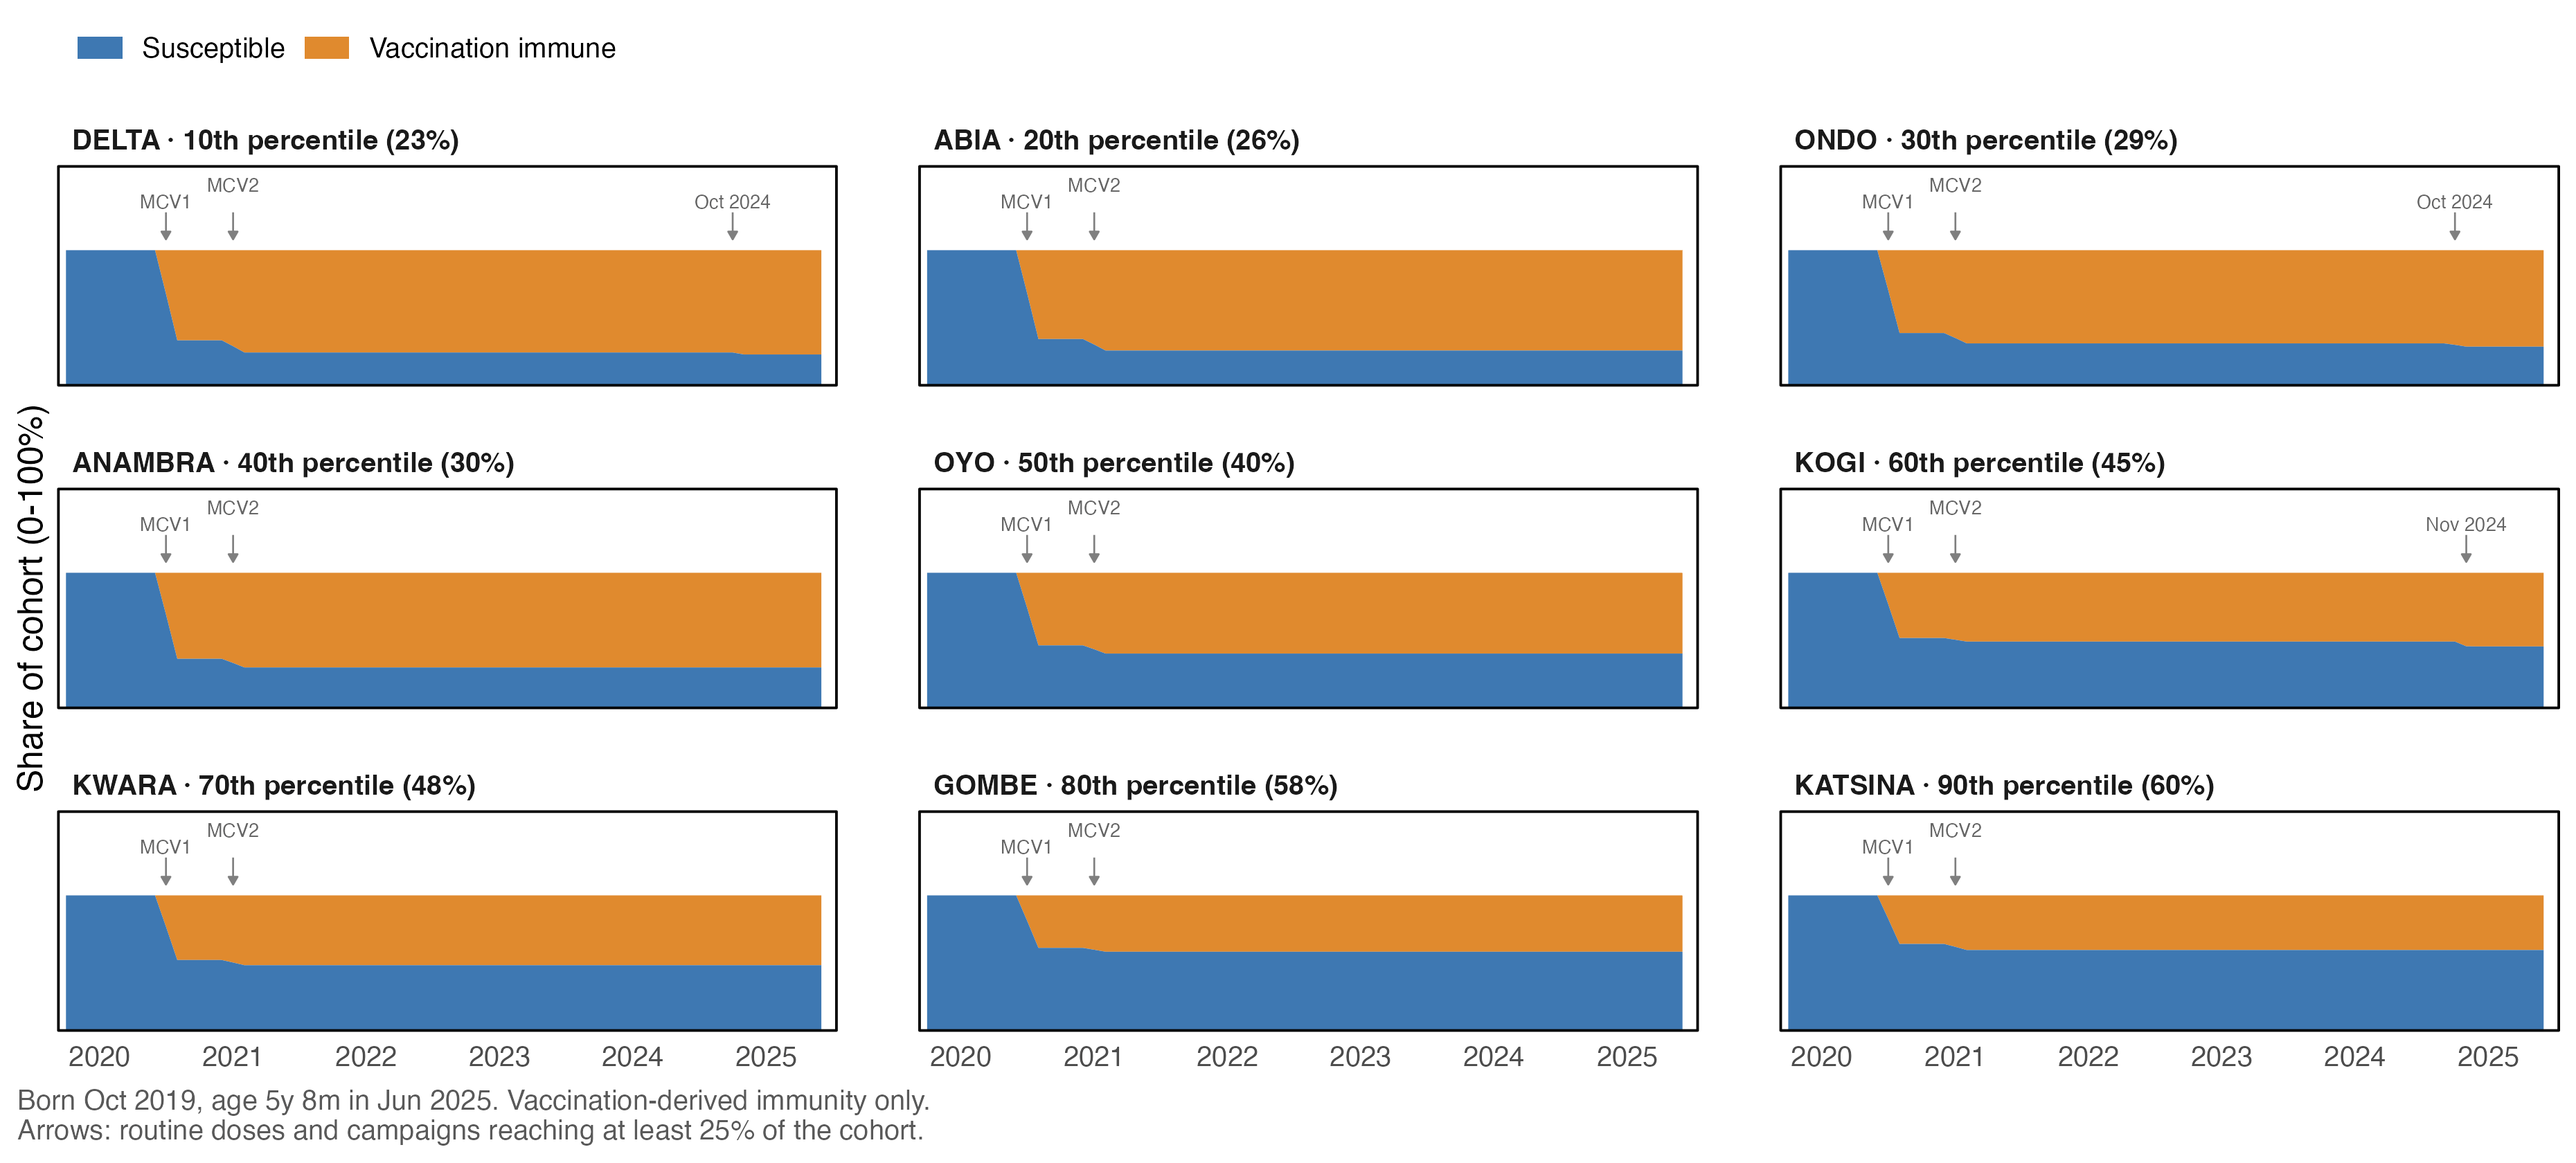
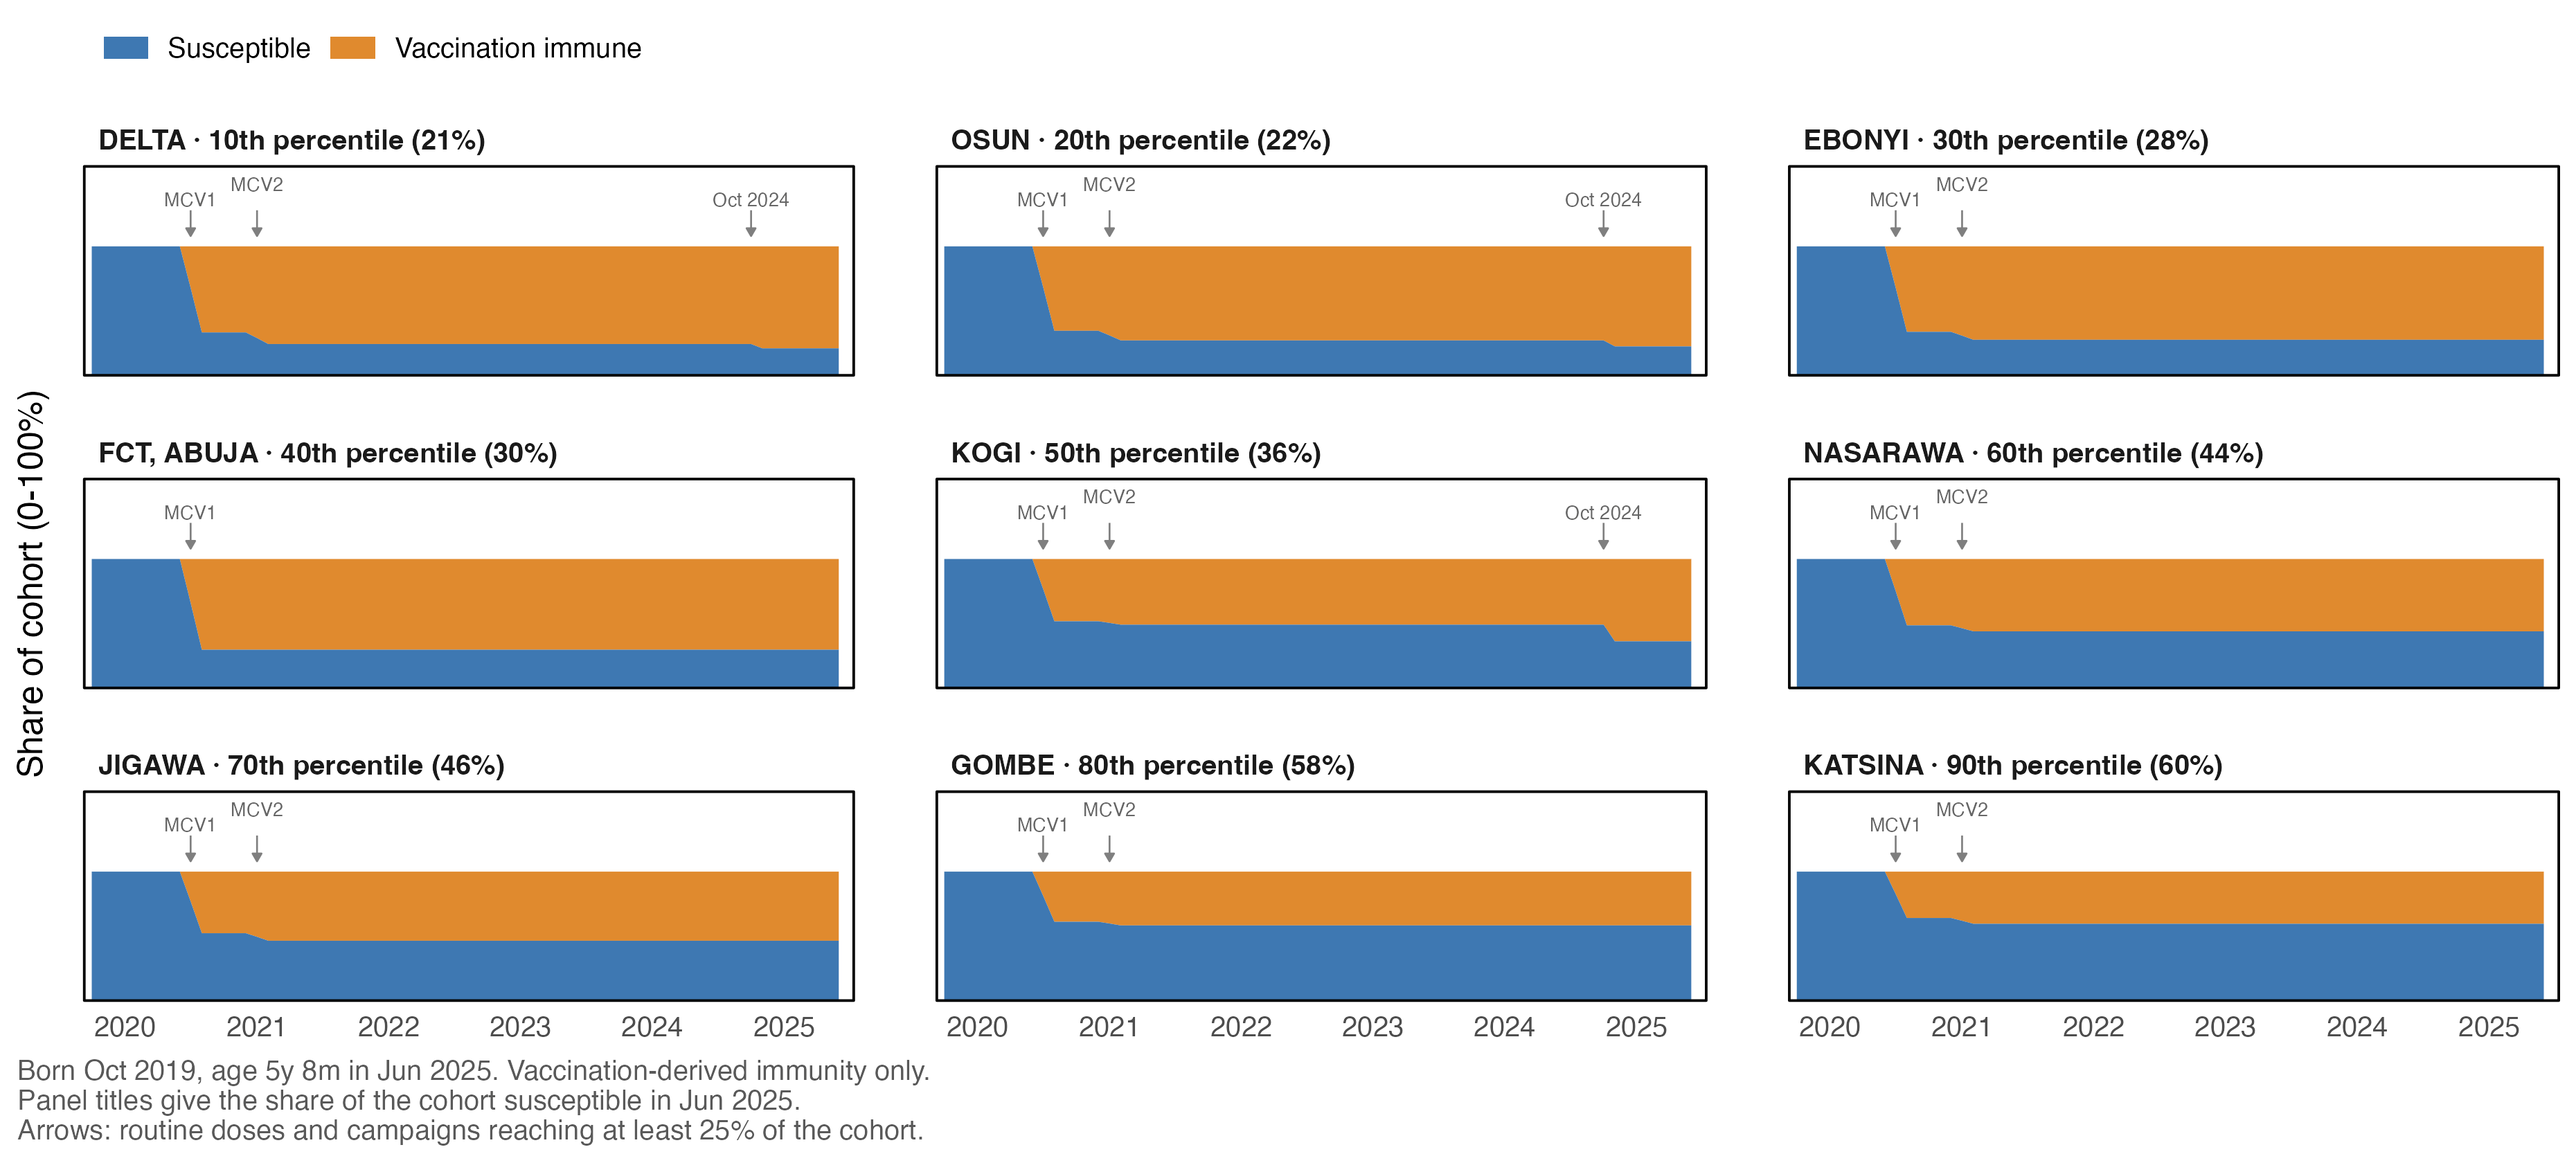
Update the Nigeria example and README figures

Changed region(s): [[0.0, 0.0929, 0.9978, 0.9595], [0.0312, 0.0929, 0.1871, 0.1548], [0.0312, 0.031, 0.2495, 0.0619]]

diff --git a/README.md b/README.md
@@ -107,9 +107,11 @@ history <- mipR::build_vaccination_history(
 )
 
 immunity <- mipR::estimate_immunity(history, cohorts, coupling = "dependent")
-summary_2025 <- mipR::summarise_immunity(immunity, at = "2025-06")
+summary_2025 <- mipR::summarise_immunity(
+  immunity, at = "2025-06", age_breaks = c(0, 60, 120)
+)
 
-mipR::map_immunity(summary_2025, shp, type = "bins", ncol = 4)
+mipR::map_immunity(summary_2025, shp, type = "bins", ncol = 3)
 mipR::plot_cohort_journey(
   immunity, birth = "2019-10", at = "2025-06", label = "adm1"
 )
